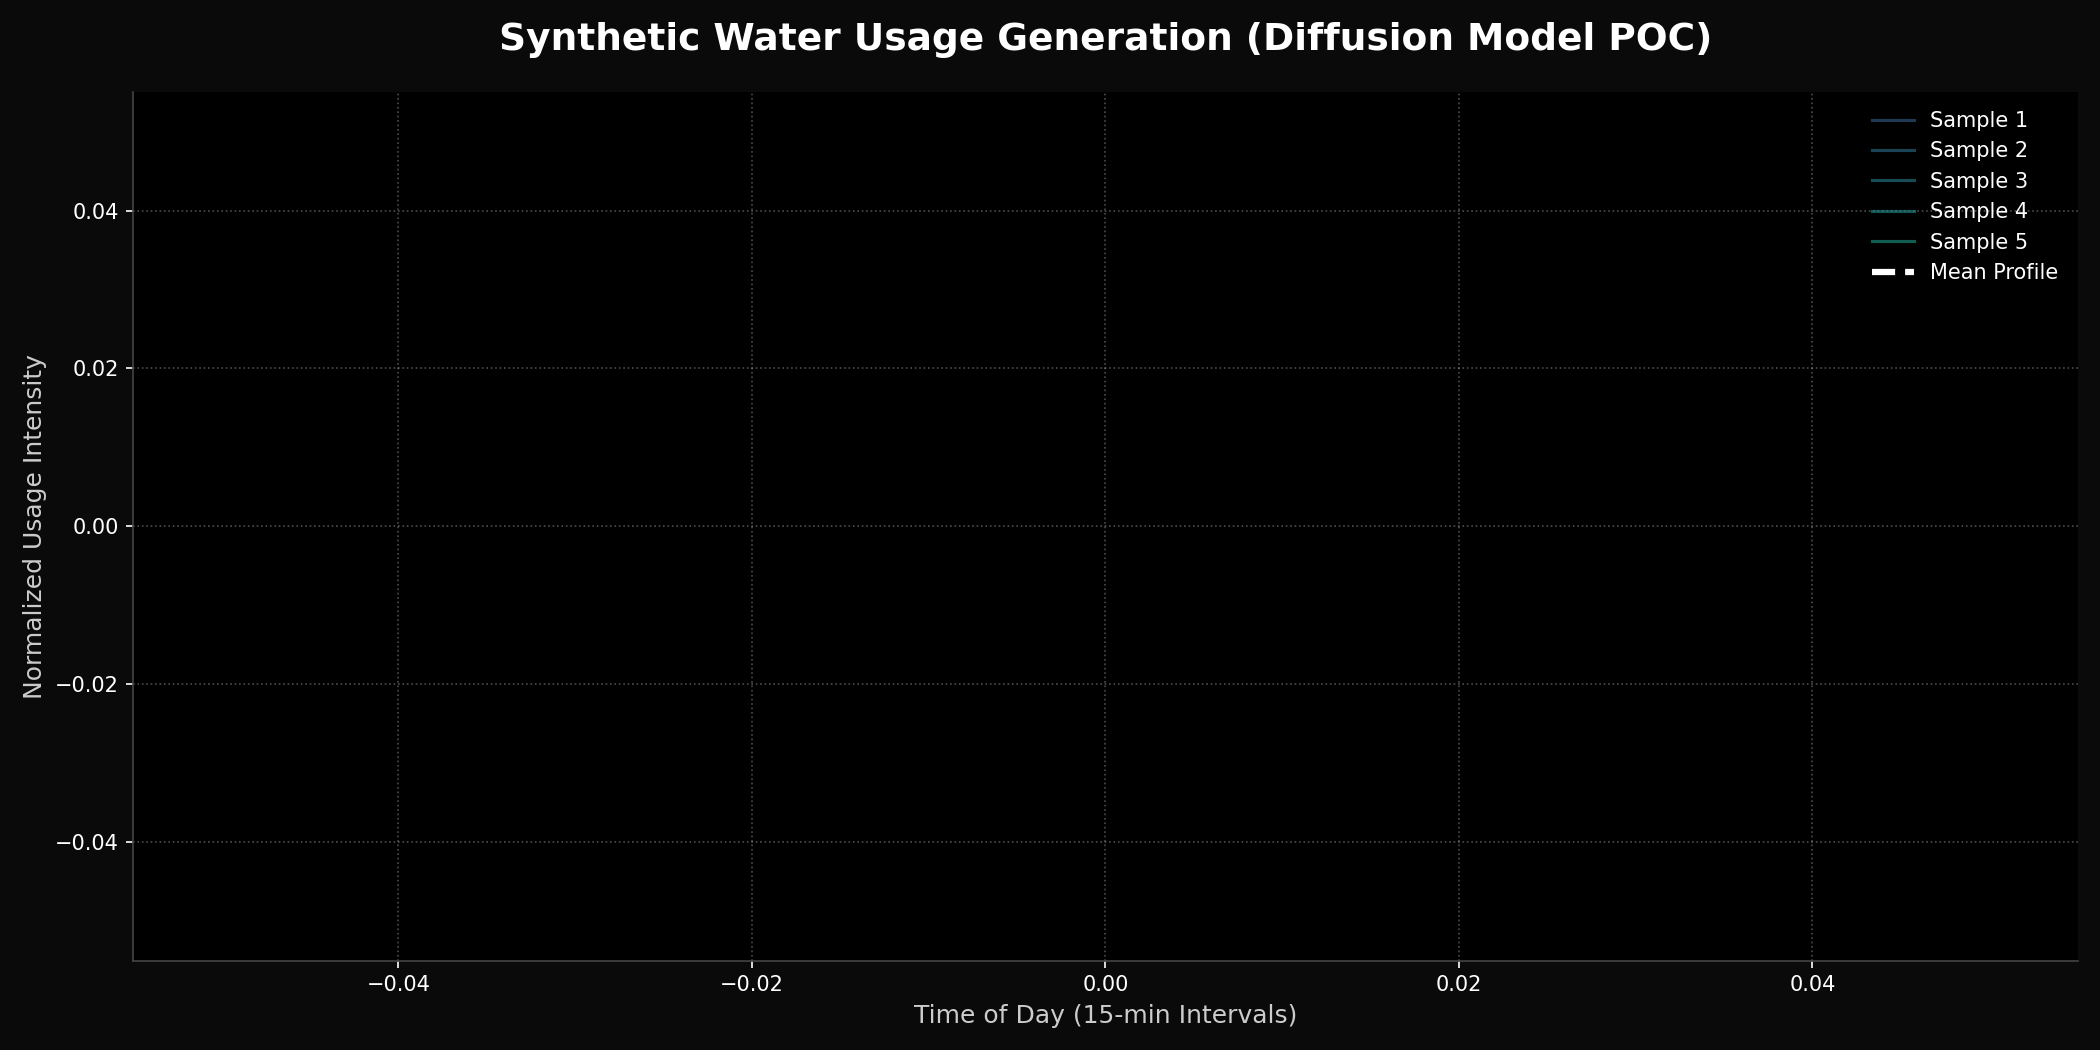
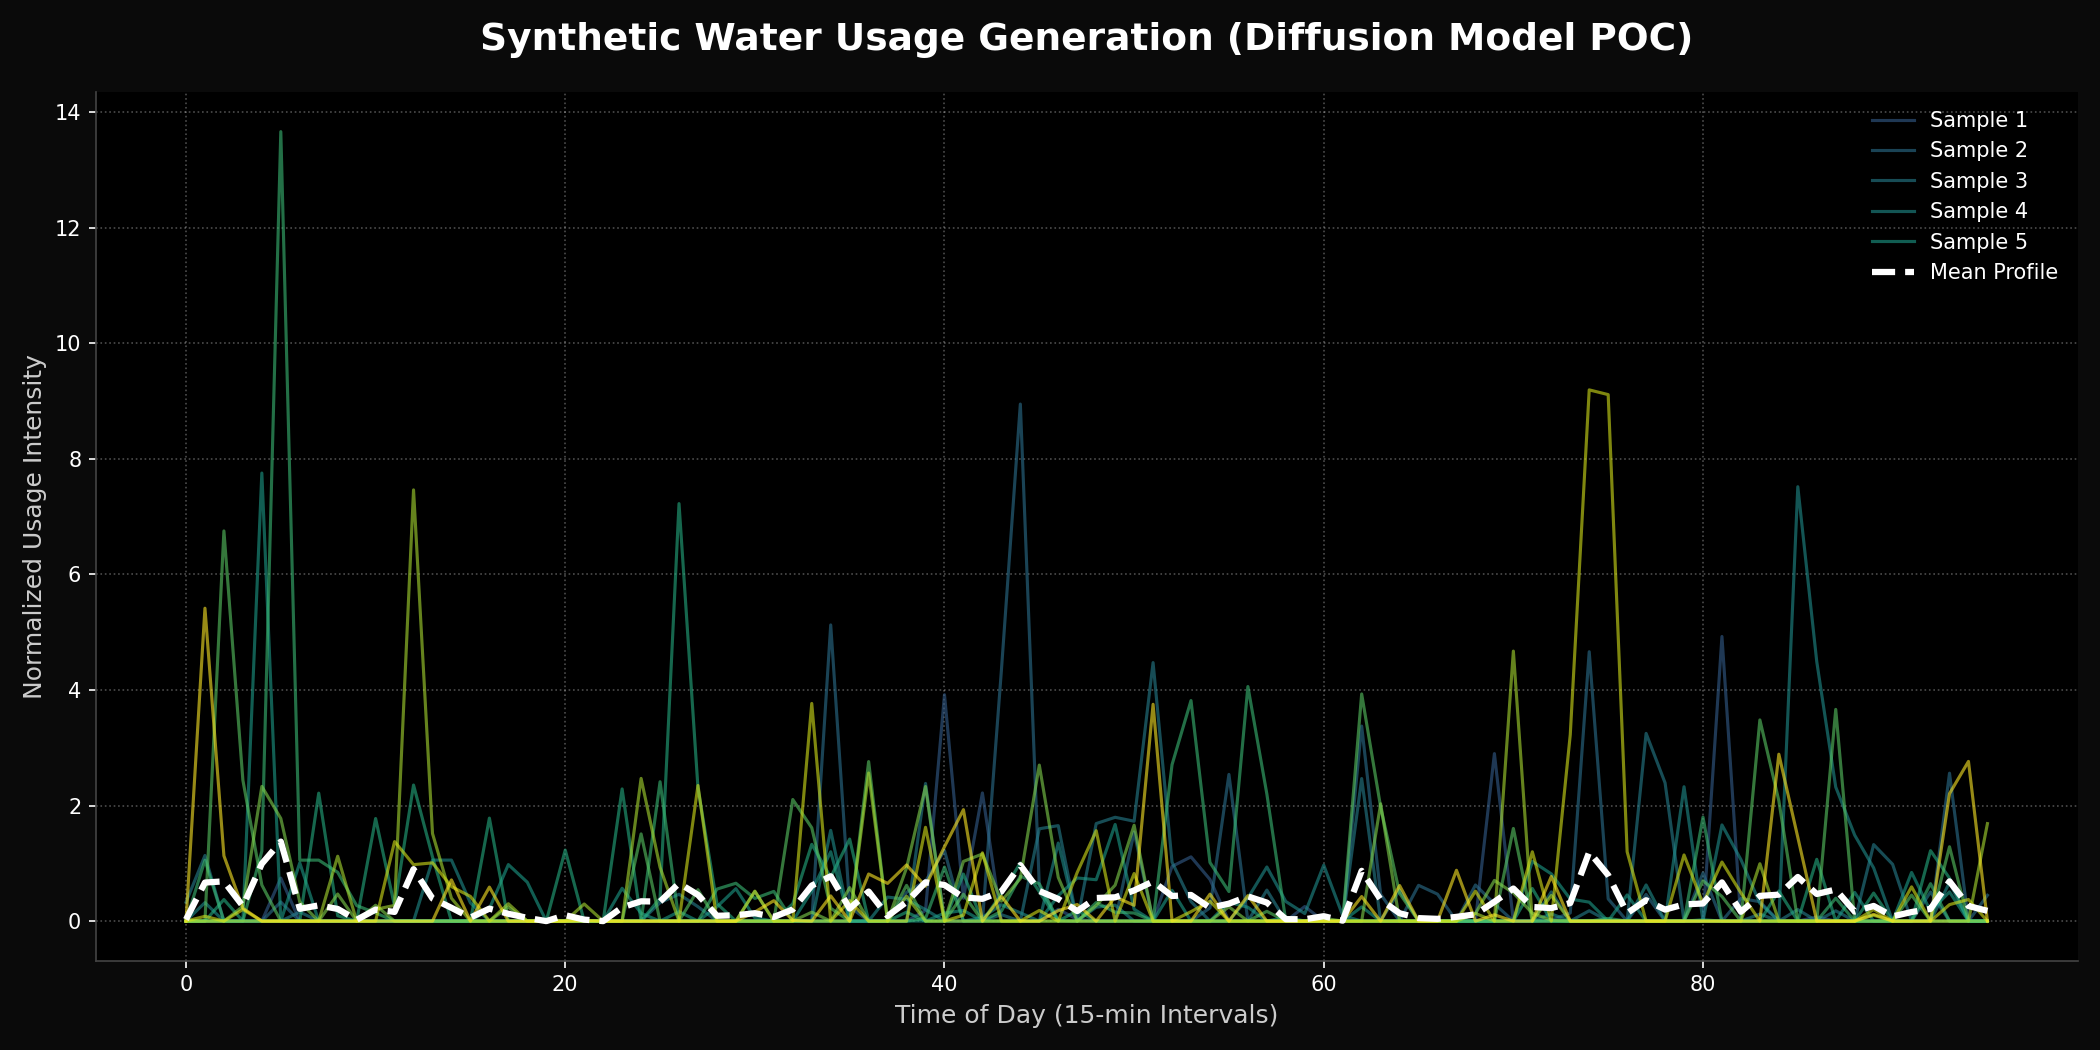
refactor: optimize feature engineering and window extraction with temporal integrity checks and namespaced library calls

diff --git a/scripts/03_export_to_parquet.py b/scripts/03_export_to_parquet.py
@@ -39,6 +39,7 @@ class WaterDataset(IterableDataset):
         
         for batch in worker_ds.to_batches(batch_size=self.batch_size):
             # Optimized Arrow-to-NumPy conversion
+            # Use to_numpy(zero_copy_only=False) to ensure we handle any internal Arrow structures safely
             raw_x = batch.column("x").flatten().to_numpy().astype(np.float32).reshape(-1, 96)
             c_in_arr = batch.column("c_in").flatten().to_numpy().astype(np.float32).reshape(-1, 10, 96)
             c_out_arr = batch.column("c_out").flatten().to_numpy().astype(np.float32).reshape(-1, 10, 96)
@@ -49,7 +50,7 @@ class WaterDataset(IterableDataset):
             eps = 1e-6
             
             occurrence_mask = (raw_x > 0.0).astype(np.float32)
-            log_vals = np.log1p(raw_x)
+            log_vals = np.log1p(np.maximum(raw_x, 0.0)) # Ensure non-negative for log
             log_normalised = np.where(
                 occurrence_mask > 0,
                 (log_vals - log_mean) / (log_std + eps),
@@ -59,12 +60,17 @@ class WaterDataset(IterableDataset):
             x_arr = np.stack([occurrence_mask, log_normalised], axis=1)
             
             # Apply Normalization to c_in (Lagged usage features: indices 6, 7, 8, 9)
-            # Use same log scaling as target x for consistency
-            c_in_arr[:, 6:10, :] = (np.log1p(c_in_arr[:, 6:10, :]) - log_mean) / (log_std + eps)
+            # 🚨 FIX: Apply masking here too to prevent NaN/Inf from log1p(0) or corrupted data
+            lag_usage = c_in_arr[:, 6:10, :]
+            lag_mask = (lag_usage > 0.0).astype(np.float32)
+            c_in_arr[:, 6:10, :] = np.where(
+                lag_mask > 0,
+                (np.log1p(np.maximum(lag_usage, 0.0)) - log_mean) / (log_std + eps),
+                0.0
+            )
             
             # Apply Normalization to c_out (Weather features)
             weather_cols = ["temp_c", "precip_mm", "snow_cm", "temp_1h", "temp_24h", "temp_48h", "precip_3d", "snow_24h", "gdd_7d"]
-            # Indices for these in c_out: 0, 1, 2, 3, 4, 5, 7, 8, 9 (Index 6 is snow_flag)
             weather_indices = [0, 1, 2, 3, 4, 5, 7, 8, 9]
             
             for i, col in enumerate(weather_cols):
@@ -78,8 +84,12 @@ class WaterDataset(IterableDataset):
             c_in = torch.from_numpy(c_in_arr)
             c_out = torch.from_numpy(c_out_arr)
             
-            # Yield individual samples
+            # Final Integrity Check: Drop any sample with NaNs or Infs
             for i in range(x.shape[0]):
+                if torch.isnan(x[i]).any() or torch.isinf(x[i]).any(): continue
+                if torch.isnan(c_in[i]).any() or torch.isinf(c_in[i]).any(): continue
+                if torch.isnan(c_out[i]).any() or torch.isinf(c_out[i]).any(): continue
+                
                 yield x[i], c_in[i], c_out[i]
 
 def get_dataloader(data_dir="data/windows/", batch_size=64, num_workers=0):

diff --git a/scripts/04_train_diffusion.py b/scripts/04_train_diffusion.py
@@ -38,7 +38,9 @@ class ResBlock(nn.Module):
     def __init__(self, in_ch, out_ch, cond_dim):
         super().__init__()
         self.conv1 = nn.Conv1d(in_ch, out_ch, 3, padding=1)
+        self.gn1   = nn.GroupNorm(8, out_ch)
         self.conv2 = nn.Conv1d(out_ch, out_ch, 3, padding=1)
+        self.gn2   = nn.GroupNorm(8, out_ch)
         self.film  = FiLM(cond_dim, out_ch)
         self.act   = nn.SiLU()
         
@@ -49,9 +51,9 @@ class ResBlock(nn.Module):
             self.skip_conv = nn.Identity()
 
     def forward(self, x, c):
-        h = self.act(self.conv1(x))
+        h = self.act(self.gn1(self.conv1(x)))
         h = self.film(h, c)
-        h = self.act(self.conv2(h))
+        h = self.act(self.gn2(self.conv2(h)))
         return h + self.skip_conv(x)
 
 class UNet1D(nn.Module):
@@ -63,6 +65,11 @@ class UNet1D(nn.Module):
         self.up2   = ResBlock(256, 64, cond_dim) # Concat from down2
         self.up1   = ResBlock(128, 64, cond_dim) # Concat from down1
         self.final = nn.Conv1d(64, 2, 1)
+        
+        # Initialize final layer to be nearly zero to stabilize initial training
+        nn.init.zeros_(self.final.weight)
+        nn.init.zeros_(self.final.bias)
+        
         self.pool  = nn.AvgPool1d(2)
         self.upsample = nn.Upsample(scale_factor=2, mode='linear', align_corners=False)
 
@@ -108,7 +115,9 @@ class DiffusionModel(nn.Module):
         
         if t.ndim == 0: t = t.unsqueeze(0)
 
-        t_emb = self.time_mlp(t.float().view(-1, 1)) # [B, 64]
+        # Normalize time to [0, 1] to prevent gradient explosion from raw integers
+        t_norm = t.float().view(-1, 1) / 1000.0
+        t_emb = self.time_mlp(t_norm) # [B, 64]
         
         # Global pooling of conditions to get a sequence-level embedding
         c_in_emb = self.c_in_enc(c_in.mean(dim=-1))
@@ -156,13 +165,13 @@ class LitDiffusion(pl.LightningModule):
         avg_loss = self.trainer.callback_metrics.get("train_loss")
         if avg_loss is not None:
             notify_me(
-                subject=f"🚀 Training Progress: Epoch {self.current_epoch}",
+                subject=f"[PROGRESS] Training Progress: Epoch {self.current_epoch}",
                 body=f"Average Train Loss: {avg_loss:.6f}"
             )
 
     def on_train_end(self):
         notify_me(
-            subject="🏁 Training Complete!", 
+            subject="[DONE] Training Complete!", 
             body="The diffusion model training has finished and the final model is saved as final_water_diffusion_model.ckpt."
         )
 

diff --git a/scripts/05_generate_samples.py b/scripts/05_generate_samples.py
@@ -33,7 +33,7 @@ def generate_samples(checkpoint_path, num_samples=12):
     device = torch.device("mps" if torch.backends.mps.is_available() else "cpu")
     lit_model.to(device)
     
-    print(f"✨ Generating {num_samples} samples on {device}...")
+    print(f"Generating {num_samples} samples on {device}...")
     
     # 2. Create Dummy Conditions
     # Simulating a hot summer weekday: High temp, low humidity
@@ -113,6 +113,10 @@ def generate_samples(checkpoint_path, num_samples=12):
     # Inverse Transform
     gate = (occurrence_mask > 0.5).astype(float)
     unscaled_log = (log_magnitude * log_std) + log_mean
+    
+    # Cap unscaled_log to prevent np.expm1 overflow (inf) from an untrained model's noise
+    unscaled_log = np.clip(unscaled_log, a_min=-10.0, a_max=10.0)
+    
     gallons = np.expm1(unscaled_log)
     
     samples = gate * np.maximum(gallons, 0.0)
@@ -148,7 +152,7 @@ def generate_samples(checkpoint_path, num_samples=12):
     
     plt.tight_layout()
     plt.savefig("synthetic_samples_poc.png", facecolor='#0a0a0a')
-    print("✅ Successfully generated samples and saved to synthetic_samples_poc.png")
+    print("Successfully generated samples and saved to synthetic_samples_poc.png")
     
     return samples
 
@@ -159,6 +163,6 @@ if __name__ == "__main__":
     try:
         generate_samples(ckpt_path)
     except Exception as e:
-        print(f"❌ Error during generation: {e}")
+        print(f"Error during generation: {e}")
         import traceback
         traceback.print_exc()
